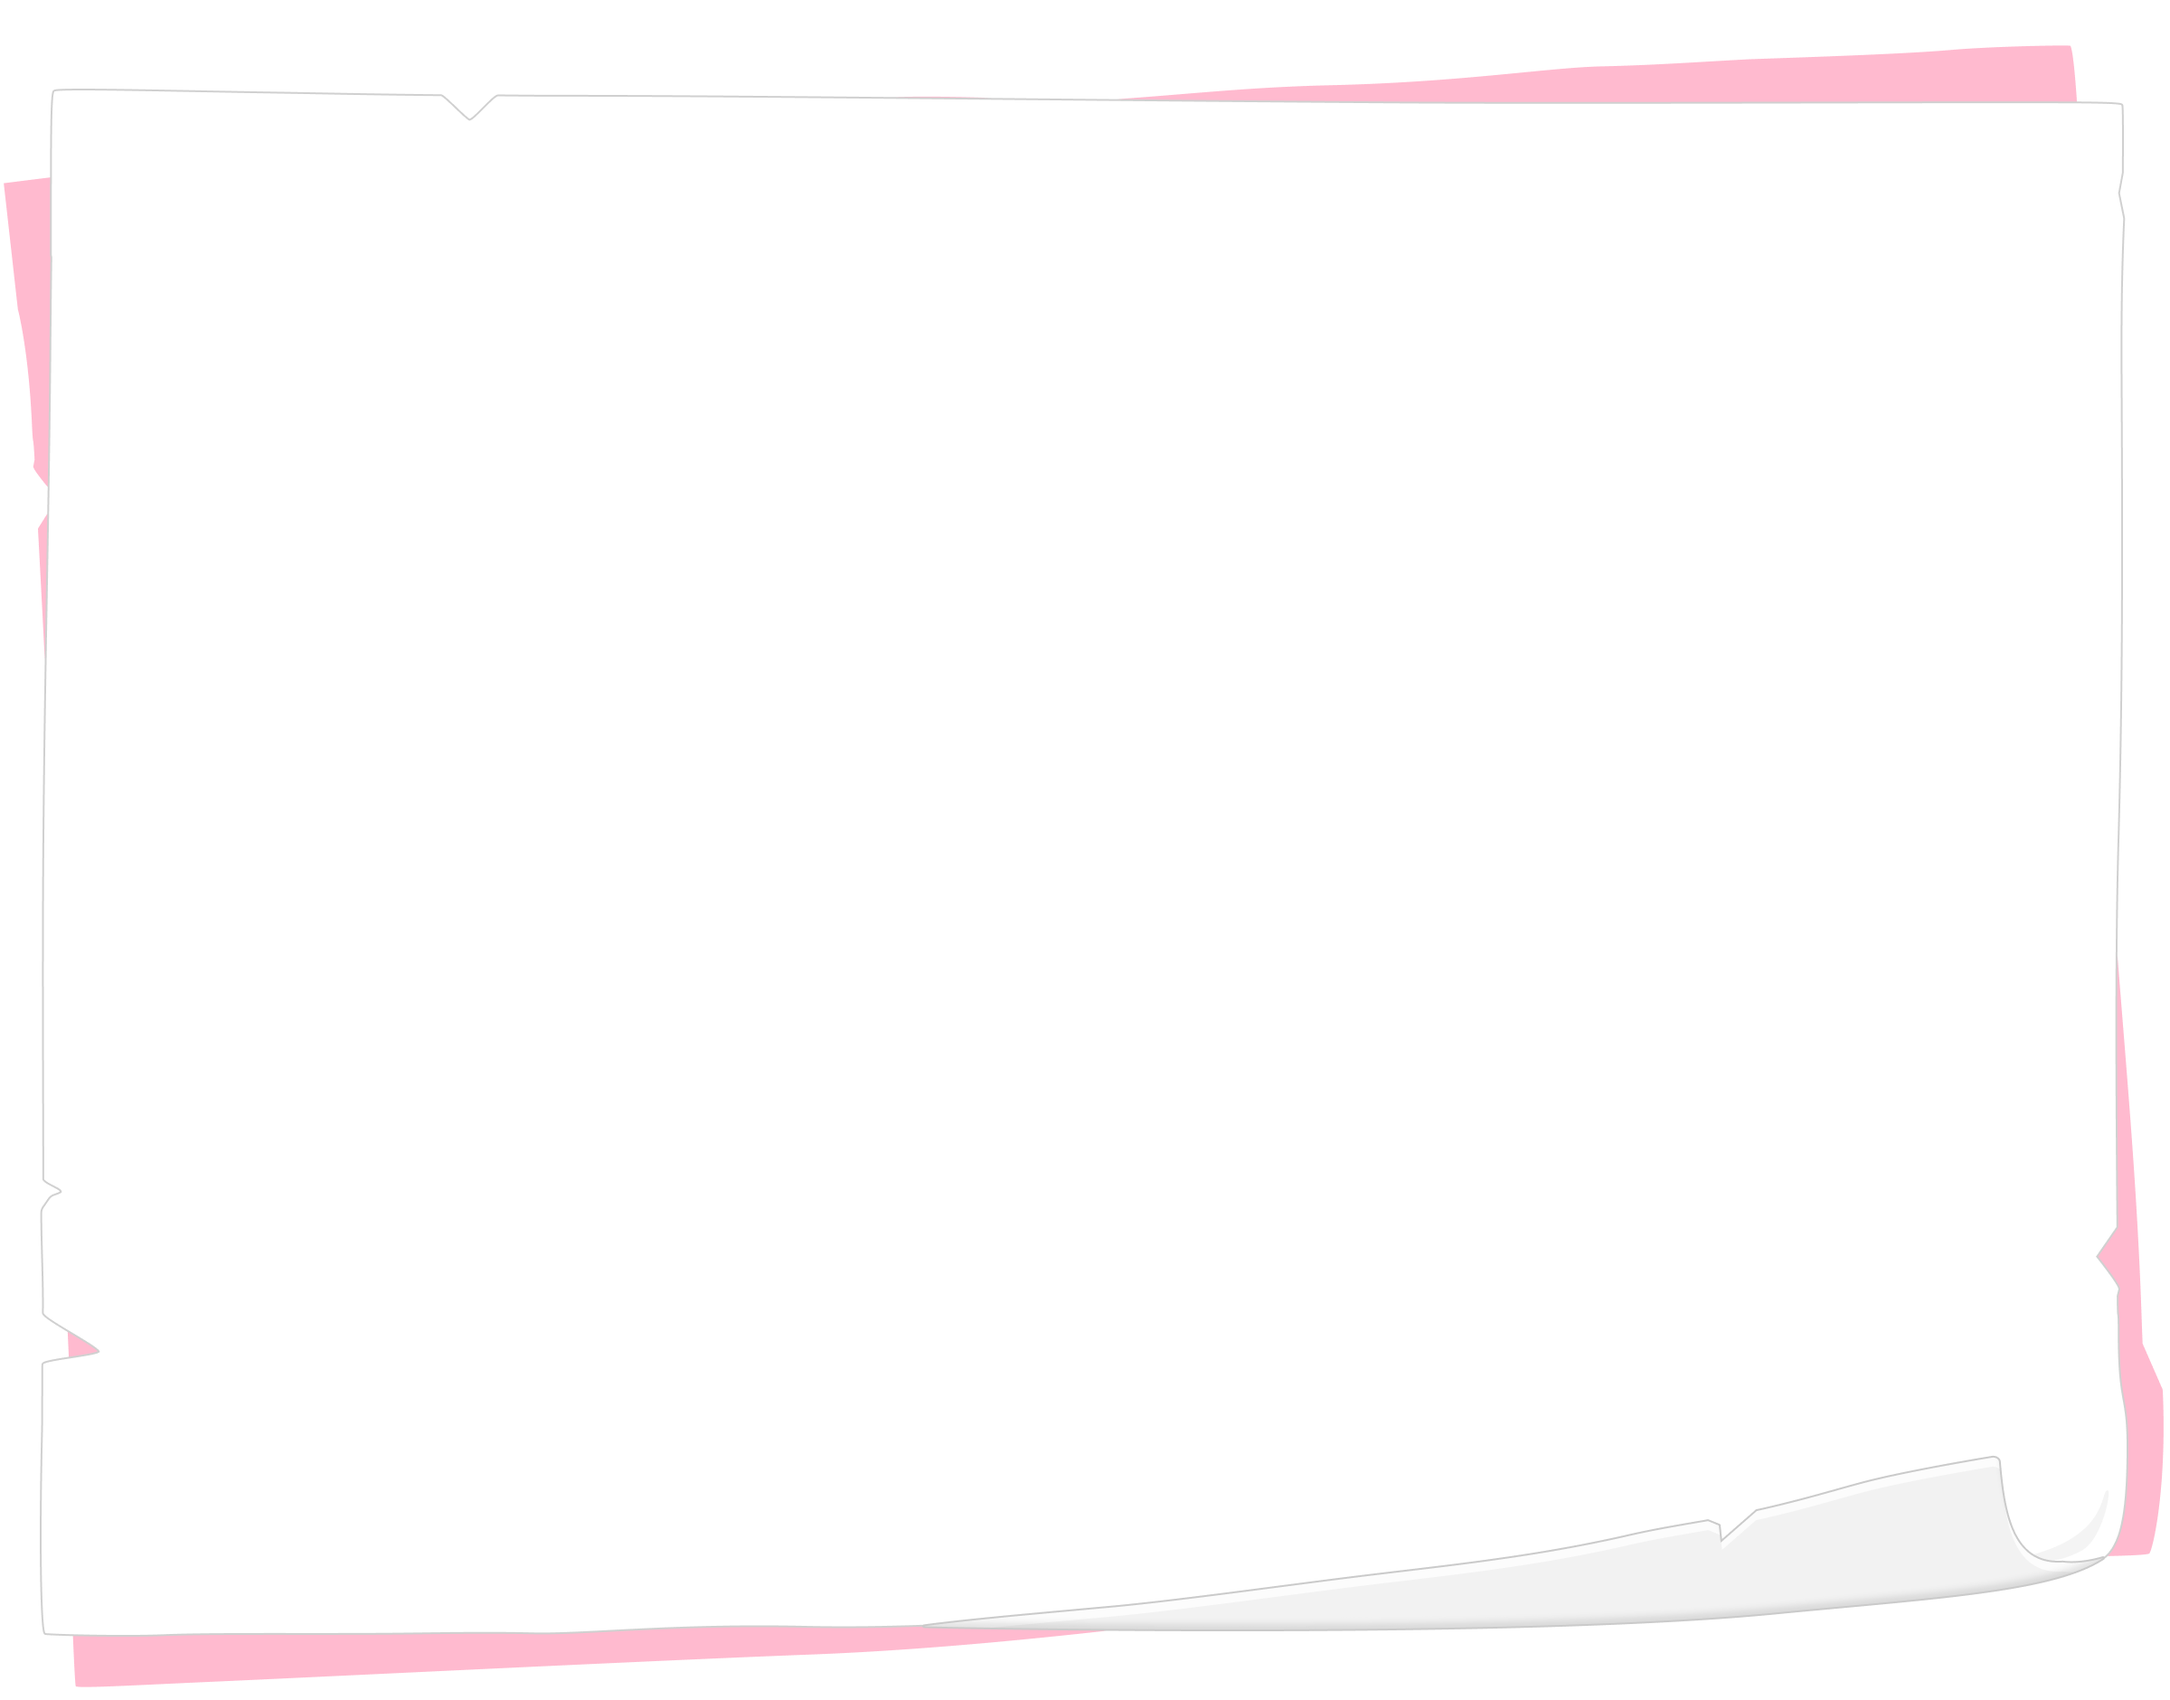
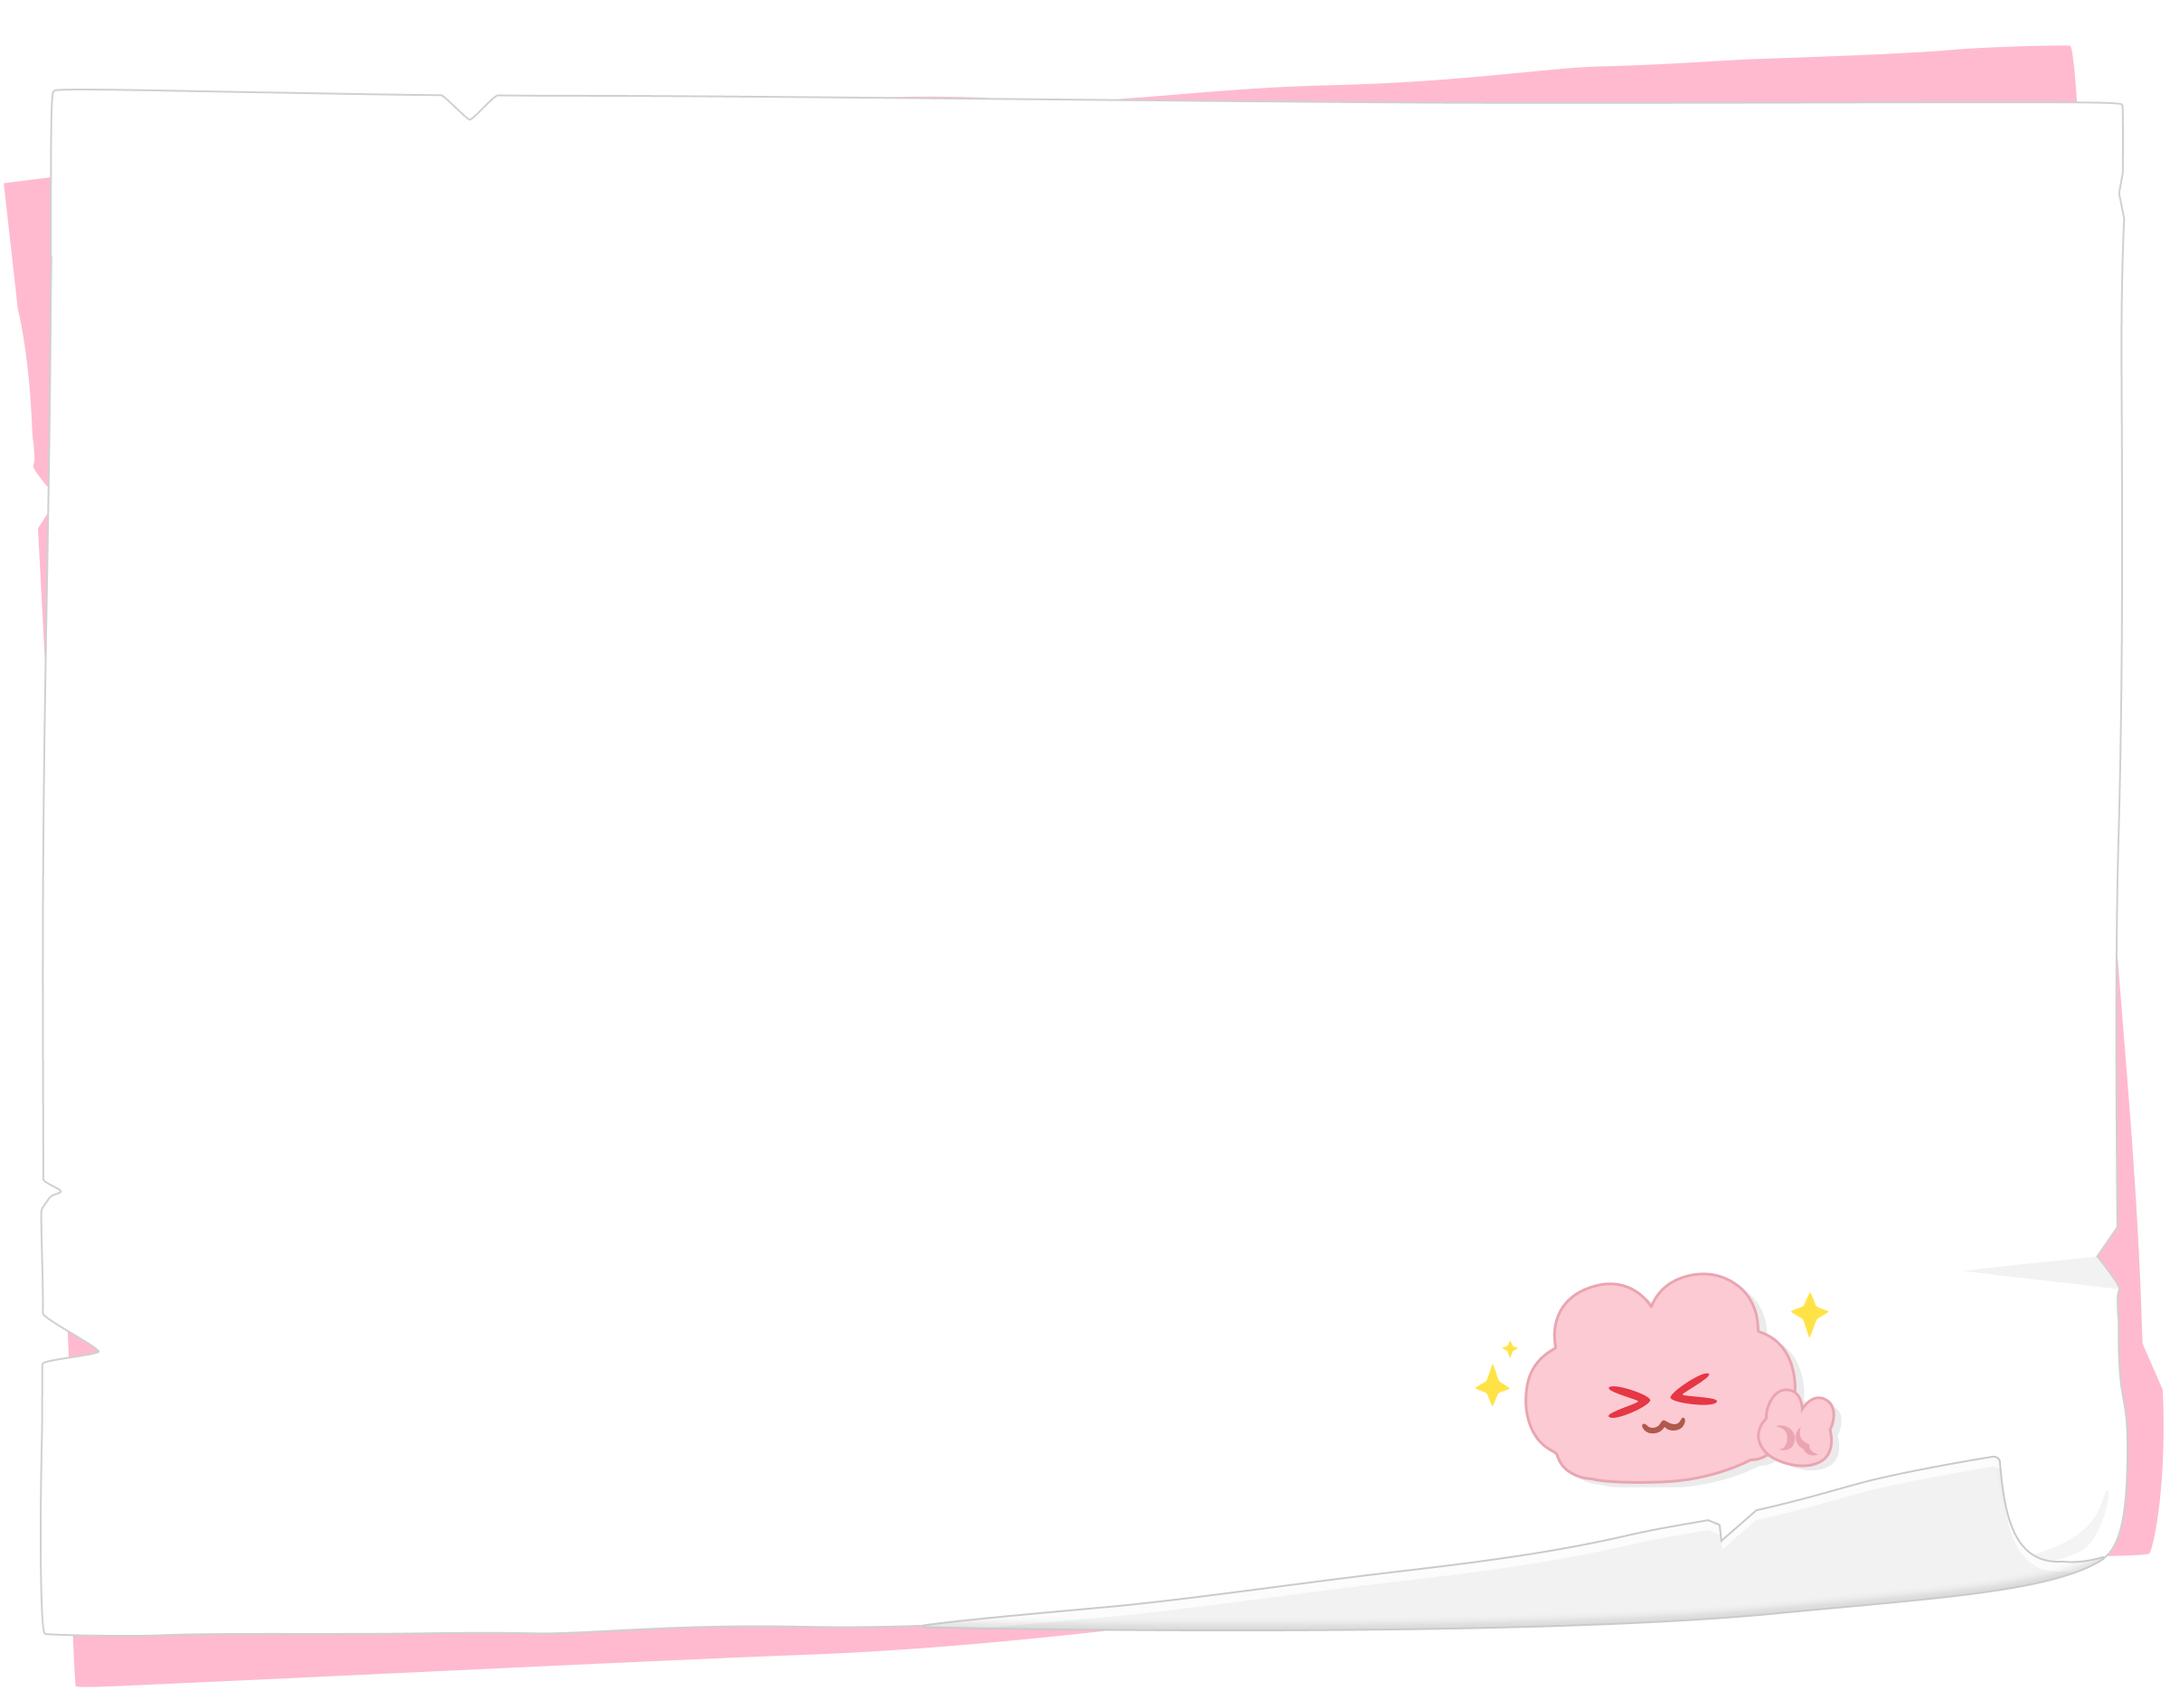
이미지 및 디자인 디테일 수정

Changed region(s): [[0.6875, 0.7404, 0.8438, 0.8947]]

diff --git a/index.html b/index.html
@@ -531,9 +531,9 @@
             <h3 class="notice_title">꼭 읽어주세요!</h3>
             <p class="list_title">&lt;수업 신청 및 참여 &gt;</p>
             <ul class="dash_list">
-              <li>ZOOM으로 진행되는 라이브 수업이며, 회원가입만 해도 누구나 신청할 수 있습니다.</li>
+              <li>ZOOM으로 진행되는 라이브 수업이며, <u>회원가입만 해도 누구나 신청</u>할 수 있습니다.</li>
               <li>사전 신청자는 수업 30분 전 참여 안내 문자가 발송됩니다. (SMS 수신동의 필수)
-                <br>또는 수업 10분 전부터 [초코타임 → 나의 초코타임 → 수업 들어가기] 메뉴에서 바로 참여할 수 있습니다.
+                <br>또는 <u>수업 10분 전부터 [초코타임 → 나의 초코타임 → 수업 들어가기] 메뉴에서 바로 참여</u>할 수 있습니다.
               </li>
             </ul>
             <br>
@@ -541,12 +541,13 @@
             <br>
             <p class="list_title">&lt;이벤트 유의사항&gt;</p>
             <ul class="dash_list">
-              <li>후기 작성은 여러 번 가능하나, 초코칩은 한 자녀당 1회만 제공됩니다.
+              <li>후기 작성은 여러 번 가능하나, <u>초코칩은 한 자녀당 1회</u>만 제공됩니다.
                 <br>(수업에 관계없이 중복 지급X, 최대 100개 제공)
               </li>          
-              <li>SNS 후기는 6/21 이후 담당자 확인 시, 수업과 무관하거나 삭제·미공개 처리된 내용은 인정되지 않습니다.</li>
-              <li>SNS 후기 이벤트 참여 시 작성한 링크를 함께 기재해 주셔야 하며, 수업·후기 개수와 관계없이 기프티콘은 회원정보에 등록된 번호로 최초 1회만 지급됩니다.</li>
-              <li>기프티콘은 재고 상황에 따라 변경될 수 있으며, 유효기간 만료 후 연장 및 환불은 불가합니다.</li>
+              <li>SNS 후기는 6/21 이후 담당자 확인 시, <u>수업과 무관하거나 삭제&middot;미공개 처리된 내용은 인정되지 않습니다.</u></li>
+              <li>SNS 후기 이벤트 참여 시 작성한 링크를 함께 기재해 주셔야 하며, 
+                <br><u>수업&middot;후기 개수와 관계없이 기프티콘은 회원정보에 등록된 번호로 최초 1회만 지급됩니다.</u></li>
+              <li><u>기프티콘은 재고 상황에 따라 변경될 수 있으며, 유효기간 만료 후 연장 및 환불은 불가합니다.</u></li>
               <li>작성된 후기는 추후 초코타임 수업 및 마케팅 홍보물에 활용될 수 있습니다.</li>
             </ul>
           </div>
@@ -568,6 +569,8 @@
               <span>(주)미래엔</span>
               <span>대표자: 홍길동</span>
               <span>사업자등록번호: 1234-10-12345</span>
+            </p>
+            <p>
               <span>주소: 서울특별시 서초구 신반포로 321</span>
               <span>고객센터: <a href="tel:1800-8890">1800-8890</a></span>
             </p>

diff --git a/css/layout.css b/css/layout.css
@@ -192,24 +192,25 @@ header .content .logo_miraen { width: 6rem; }
   content: "";
   display: block;
   position: absolute;
-  left: 50%;
-  z-index: -2;
   background-position: center top;
   background-repeat: no-repeat;
   background-size: contain;
-  transform: translateX(-50%);
   }
 .event_banner::before {
-  bottom: -1.75rem;
-  left: 46%;
-  width: 30.75rem;
-  height: 13.625rem;
-  background-image: url(../img/img_flower.png);
+  right: 16.25rem;
+  bottom: -10rem;
+  width: 3.375rem;
+  height: 2.1875rem;
+  background-image: url(../img/img_arrow_down.png);
   }
 .event_banner::after {
+  left: 55%;
   bottom: -3.125rem;
+  z-index: -2;
   width: 38.375rem;
   height: 35rem;
+  transform: translateX(-55%);
+
   background-image: url(../img/ch.gif);
   }
 
@@ -521,6 +522,7 @@ textarea::placeholder {
   font-size: 1.875rem;
   font-weight: 700;
   line-height: 1.2;
+  margin-top: 1.5rem;
   color: var(--main-brown);
   }
 .content_video .video_wrapper {
@@ -540,9 +542,20 @@ textarea::placeholder {
   height: 58.75rem;
   background: url(../img/img_video_bg.png) center top / contain no-repeat;
   }
+.content_video .video_wrapper::after {
+  content: "";
+  display: block;
+  position: absolute;
+  top: 1.875rem;
+  left: 5rem;
+  width: 2.5rem;
+  height: 4.875rem;
+  background: url(../img/img_clip.png) center top / contain no-repeat;
+  }
 .content_video .video_wrapper video{
   width: 68.75rem;
   border-radius: 1.75rem;
+  margin-top: -0.5rem;
   }
 
 .swiper_wrap {
@@ -740,7 +753,7 @@ textarea::placeholder {
 
 .swiper_wrap > .swiper-button-prev,
   .swiper_wrap > .swiper-button-next {
-  top: 55%;
+  top: 60%;
   z-index: 30;
   transform: translateY(-50%);
   }
